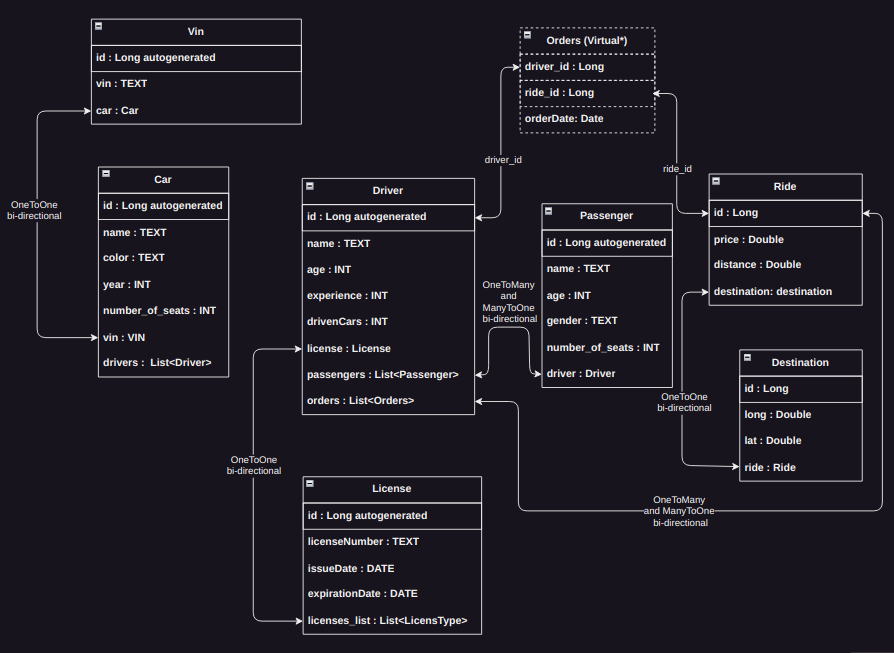
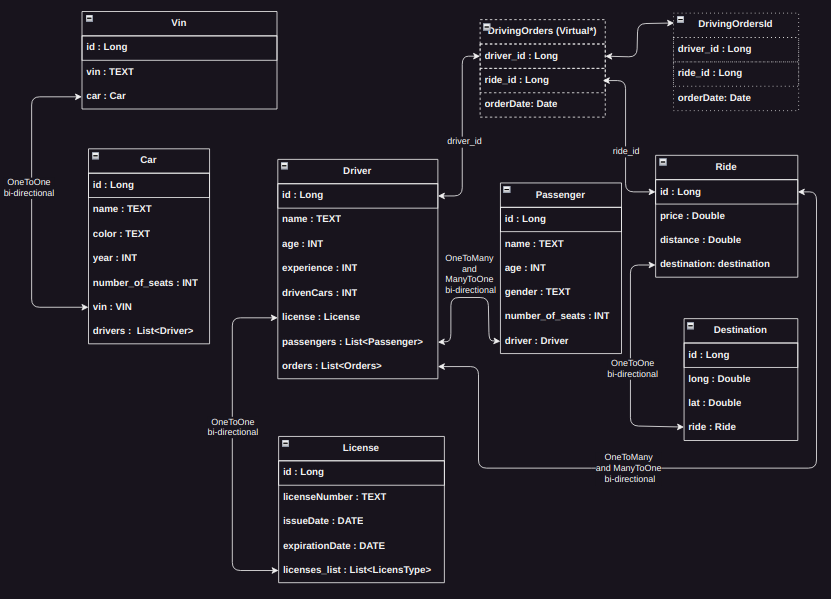
fixed wrong table name and fixed first 2 actions

diff --git a/src/main/java/com/example/app/AppApplication.java b/src/main/java/com/example/app/AppApplication.java
@@ -5,14 +5,17 @@ import com.example.app.Car.CarRepository;
 import com.example.app.Car.Car;
 import com.example.app.Driver.Driver;
 import com.example.app.Driver.DriverRepository;
+import com.example.app.DrivingOrders.DrivingOrders;
+import com.example.app.DrivingOrders.DrivingOrdersId;
 import com.example.app.License.License;
-import com.example.app.Order.Order;
-import com.example.app.Order.OrderId;
 import com.example.app.Passenger.Passenger;
 import com.example.app.Ride.Ride;
 import com.example.app.Vin.Vin;
 import com.example.app.Vin.VinRepository;
 import com.github.javafaker.Faker;
+import com.mysql.cj.exceptions.WrongArgumentException;
+
+import java.io.IOError;
 
 import org.springframework.boot.CommandLineRunner;
 import org.springframework.boot.SpringApplication;
@@ -38,8 +41,13 @@ public class AppApplication {
 			int option = 0;
 			do {
 				Utils.printMenuOptions();
-				option = Integer.parseInt(inputReader.readInput());
-				System.out.println("You choose: " + option);
+				try {
+					option = Integer.parseInt(inputReader.readInput());
+					System.out.println("You choose: " + option);
+				} catch (NumberFormatException e) {
+					System.out.println("You choose: " + option + " which is invalid");
+					e.printStackTrace();
+				}
 
 				switch (option) {
 					// System exit
@@ -105,7 +113,7 @@ public class AppApplication {
 						License license = Utils.generateLicenses();
 						driver.setLicense(license);
 						System.out.println(ride + " " + driver);
-						driver.addOrder(new Order(new OrderId(1L, 1L), ride, driver));
+						driver.addOrder(new DrivingOrders(new DrivingOrdersId(1L, 1L), ride, driver));
 						driverRepository.save(driver);
 						try {
 						} catch (DataAccessException ex) {
@@ -114,6 +122,9 @@ public class AppApplication {
 						}
 						break;
 					}
+					default:
+						System.out.println("Invalid option");
+						break;
 				}
 			} while (option != 0);
 		};

diff --git a/src/main/java/com/example/app/DrivingOrders/DrivingOrders.java b/src/main/java/com/example/app/DrivingOrders/DrivingOrders.java
@@ -1,4 +1,4 @@
-package com.example.app.Order;
+package com.example.app.DrivingOrders;
 
 import java.time.LocalDateTime;
 
@@ -14,12 +14,12 @@ import jakarta.persistence.ManyToOne;
 import jakarta.persistence.MapsId;
 import jakarta.persistence.Table;
 
-@Entity(name = "Order")
-@Table(name = "order")
-public class Order {
+@Entity(name = "DrivingOrders")
+@Table(name = "drivingOrders")
+public class DrivingOrders {
 
   @EmbeddedId
-  private OrderId id;
+  private DrivingOrdersId id;
 
   @ManyToOne
   @MapsId("rideId")
@@ -34,16 +34,16 @@ public class Order {
   @Column(name = "created_at", nullable = false, columnDefinition = "TIMESTAMP")
   private LocalDateTime createdAt;
 
-  public Order() {
+  public DrivingOrders() {
   }
 
-  public Order(Ride rideId, Driver driver) {
+  public DrivingOrders(Ride rideId, Driver driver) {
     this.ride = rideId;
     this.driver = driver;
     this.createdAt = LocalDateTime.now();
   }
 
-  public Order(OrderId id, Ride rideId, Driver driver) {
+  public DrivingOrders(DrivingOrdersId id, Ride rideId, Driver driver) {
     this.id = id;
     this.ride = rideId;
     this.driver = driver;
@@ -51,11 +51,11 @@ public class Order {
 
   }
 
-  public OrderId getDestinationOrderId() {
+  public DrivingOrdersId getDestinationOrderId() {
     return id;
   }
 
-  public void setDestinationOrderId(OrderId id) {
+  public void setDestinationOrderId(DrivingOrdersId id) {
     this.id = id;
   }
 

diff --git a/src/main/java/com/example/app/Driver/Driver.java b/src/main/java/com/example/app/Driver/Driver.java
@@ -6,8 +6,8 @@ import java.util.HashSet;
 import java.util.List;
 
 import com.example.app.Car.Car;
+import com.example.app.DrivingOrders.DrivingOrders;
 import com.example.app.License.License;
-import com.example.app.Order.Order;
 import com.example.app.Passenger.Passenger;
 import com.example.app.Ride.Ride;
 
@@ -62,7 +62,7 @@ public class Driver {
   private Set<Car> drivenCarsList = new HashSet<>();
 
   @OneToMany(cascade = { CascadeType.PERSIST, CascadeType.REMOVE }, mappedBy = "driver")
-  private List<Order> ordersList = new ArrayList<>();
+  private List<DrivingOrders> ordersList = new ArrayList<>();
 
   public Driver() {
   }
@@ -172,20 +172,20 @@ public class Driver {
     }
   }
 
-  public List<Order> getOrdersList() {
+  public List<DrivingOrders> getOrdersList() {
     return ordersList;
   }
 
-  public void setOrdersList(List<Order> ordersList) {
+  public void setOrdersList(List<DrivingOrders> ordersList) {
     this.ordersList = ordersList;
   }
 
-  public void addOrder(Order order) {
+  public void addOrder(DrivingOrders order) {
     if (!this.ordersList.contains(order))
       this.ordersList.add(order);
   }
 
-  public void removeOrder(Order order) {
+  public void removeOrder(DrivingOrders order) {
     if (this.ordersList.contains(order))
       this.ordersList.remove(order);
   }

diff --git a/src/main/java/com/example/app/Ride/Ride.java b/src/main/java/com/example/app/Ride/Ride.java
@@ -4,7 +4,7 @@ import jakarta.persistence.ForeignKey;
 import java.util.List;
 
 import com.example.app.Destination.Destination;
-import com.example.app.Order.Order;
+import com.example.app.DrivingOrders.DrivingOrders;
 
 import jakarta.persistence.CascadeType;
 import jakarta.persistence.Column;
@@ -43,7 +43,7 @@ public class Ride {
   private Destination destination;
 
   @OneToMany(cascade = { CascadeType.PERSIST, CascadeType.REMOVE }, mappedBy = "ride")
-  private List<Order> ordersList = new ArrayList<>();
+  private List<DrivingOrders> ordersList = new ArrayList<>();
 
   public Ride() {
   }
@@ -71,20 +71,20 @@ public class Ride {
     this.distance = distance;
   }
 
-  public List<Order> getOrdersList() {
+  public List<DrivingOrders> getOrdersList() {
     return ordersList;
   }
 
-  public void setOrdersList(List<Order> orders) {
+  public void setOrdersList(List<DrivingOrders> orders) {
     this.ordersList = orders;
   }
 
-  public void addOrder(Order order) {
+  public void addOrder(DrivingOrders order) {
     if (!this.ordersList.contains(order))
       this.ordersList.add(order);
   }
 
-  public void removeOrder(Order order) {
+  public void removeOrder(DrivingOrders order) {
     if (this.ordersList.contains(order))
       this.ordersList.remove(order);
   }

diff --git a/src/main/java/com/example/app/DrivingOrders/DrivingOrdersId.java b/src/main/java/com/example/app/DrivingOrders/DrivingOrdersId.java
@@ -1,4 +1,4 @@
-package com.example.app.Order;
+package com.example.app.DrivingOrders;
 
 import jakarta.persistence.Column;
 import jakarta.persistence.Embeddable;
@@ -6,7 +6,7 @@ import java.io.Serializable;
 
 // Composition Key table
 @Embeddable
-public class OrderId implements Serializable {
+public class DrivingOrdersId implements Serializable {
 
   @Column(name = "ride_id")
   private Long rideId;
@@ -14,10 +14,10 @@ public class OrderId implements Serializable {
   @Column(name = "driver_id")
   private Long driverId;
 
-  public OrderId() {
+  public DrivingOrdersId() {
   }
 
-  public OrderId(Long rideId, Long driverId) {
+  public DrivingOrdersId(Long rideId, Long driverId) {
     this.rideId = rideId;
     this.driverId = driverId;
   }
@@ -55,7 +55,7 @@ public class OrderId implements Serializable {
       return false;
     if (getClass() != obj.getClass())
       return false;
-    OrderId other = (OrderId) obj;
+    DrivingOrdersId other = (DrivingOrdersId) obj;
     if (rideId == null) {
       if (other.rideId != null)
         return false;

diff --git a/README.md b/README.md
@@ -51,3 +51,12 @@ Extensions:
 open schema.drawio
 
 ![schema](./images/schema.png "Project Schema")
+
+## Valid options:
+
+Option 0: Exit
+####Create#####
+Option 1: Create one Entity
+Option 2: Create X Entities
+Option 3: Create Order and Driver
+####################
